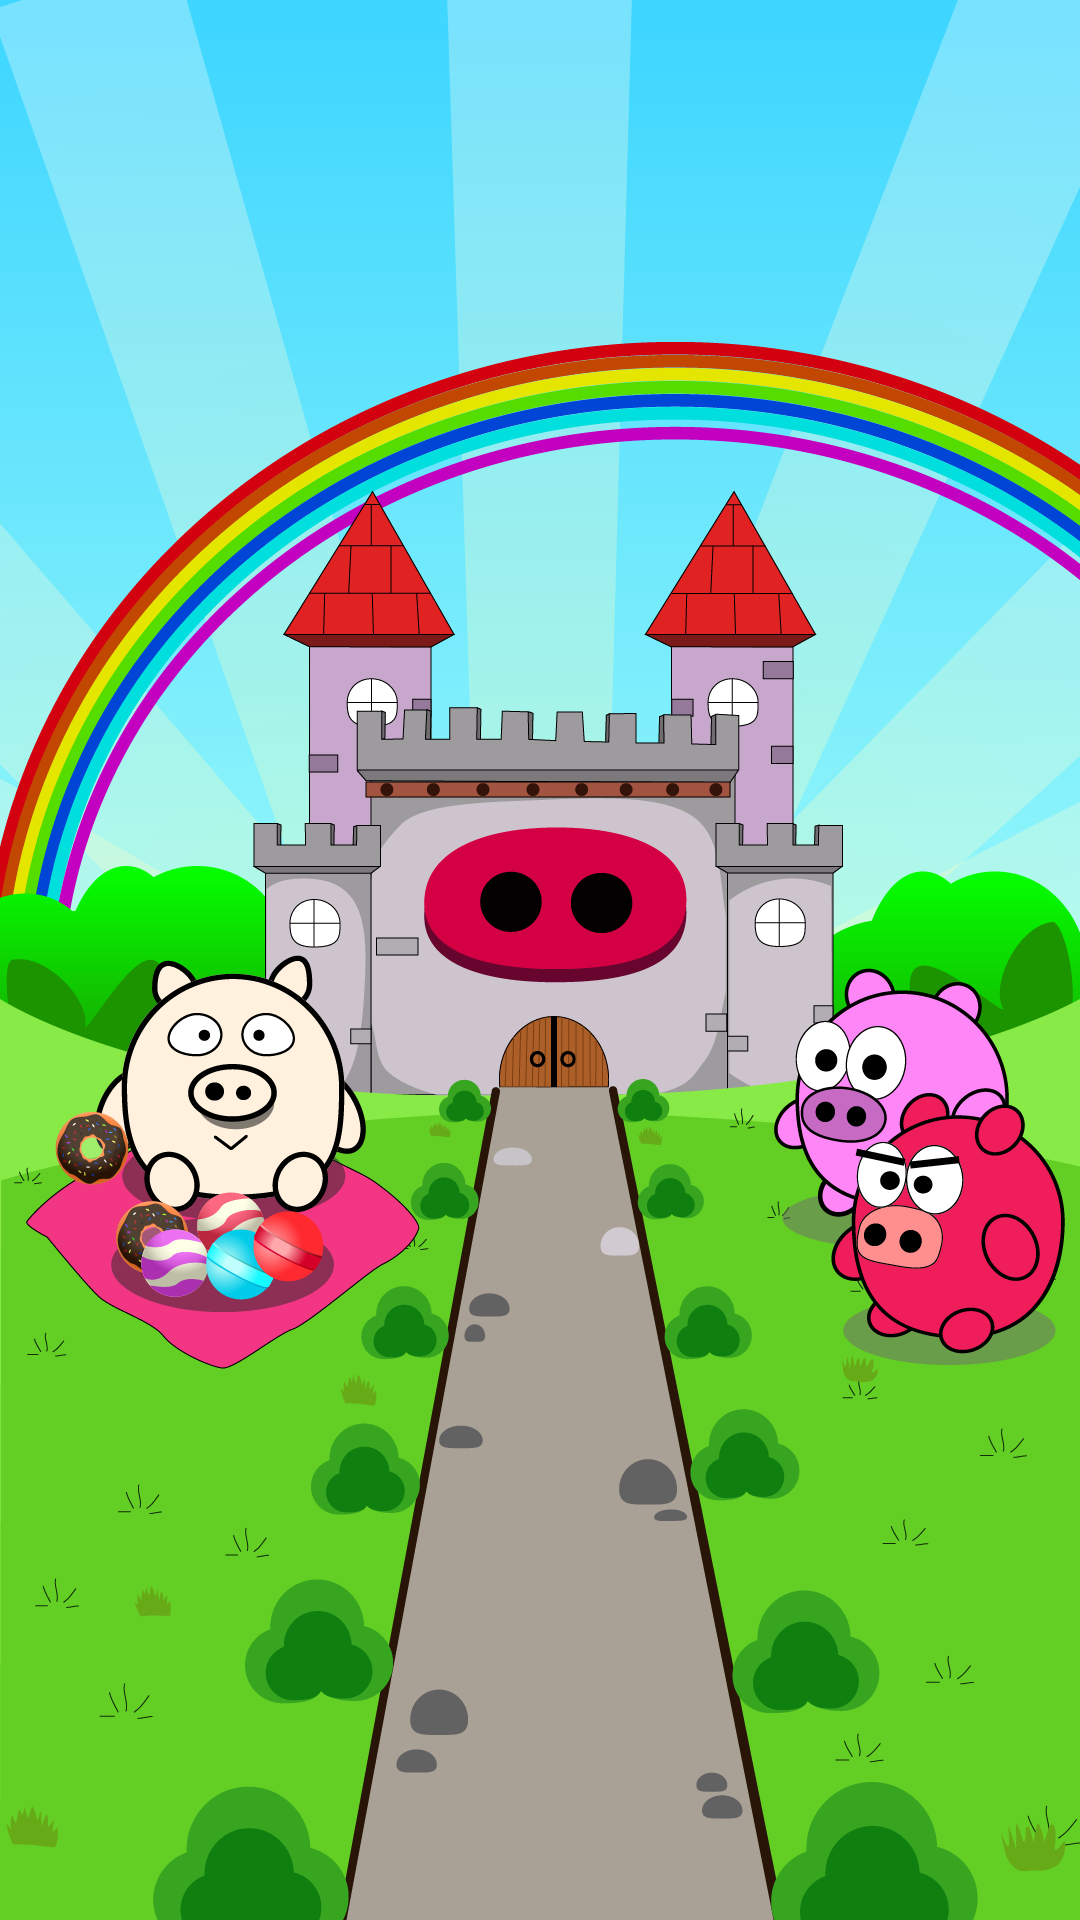
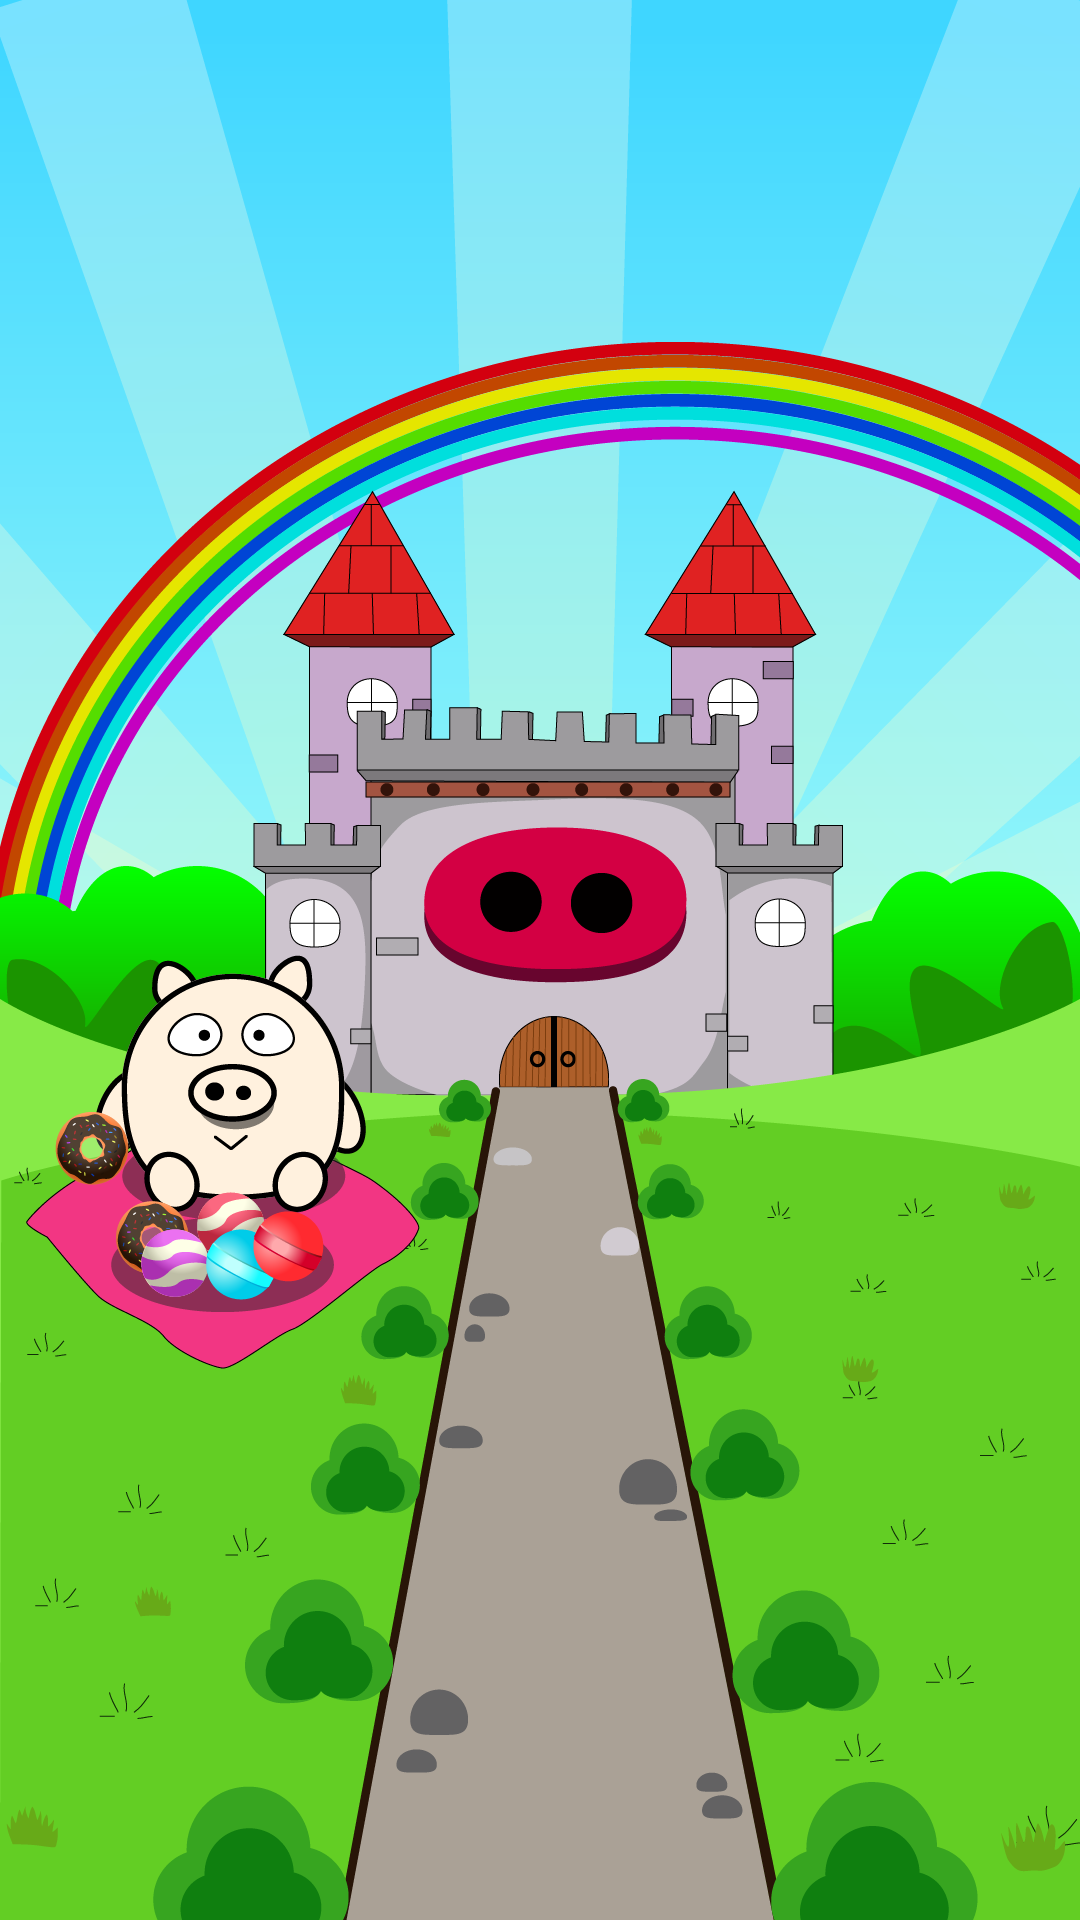
[NEW]Set Base Stage and StartScene Animation

Changed region(s): [[0.7028, 0.5, 1.0, 0.7188]]

diff --git a/Classes/GameScene/StartScene.cpp b/Classes/GameScene/StartScene.cpp
@@ -13,18 +13,28 @@ namespace GameScene
         std::string backgroundImage = "image/StartBackground.png";
         std::string startButtonImage = "image/StartButton.png";
         std::string startTitleImage = "image/StartTitle.png";
+        std::string movePig0Image = "image/StartSceneMovePig0.png";
+        std::string movePig1Image = "image/StartSceneMovePig1.png";
         this->startBackground = new GameSprite::Background(backgroundImage);
         this->startBackground->setPosition(this->center);
         this->startButton = new GameSprite::StartButton(startButtonImage);
         this->startButton->setPosition(this->getStartButtonPosition());
         this->startTitle = new GameSprite::StartTitle(startTitleImage);
         this->startTitle->setPosition(this->getStartTitlePosition());
+        this->movePig0 = new GameSprite::Image(movePig0Image);
+        this->movePig0->setPosition(this->getMovePig0EndPosition());
+        this->movePig1 = new GameSprite::Image(movePig1Image);
+        this->movePig1->setPosition(this->getMovePig1EndPosition());
         this->addChild(this->startBackground, 0);
-        this->addChild(this->startButton, 1);
-        this->addChild(this->startTitle, 1);
+        this->addChild(this->startButton, 3);
+        this->addChild(this->startTitle, 3);
+        this->addChild(this->movePig0, 2);
+        this->addChild(this->movePig1, 1);
         spriteManager->setWithKey("StartScene_Background", this->startBackground);
         spriteManager->setWithKey("StartScene_StartButton", this->startButton);
         spriteManager->setWithKey("StartScene_StartTitle", this->startTitle);
+        spriteManager->setWithKey("StartScene_MovePig0", this->movePig0);
+        spriteManager->setWithKey("StartScene_MovePig1", this->movePig1);
     }
     
     void StartScene::releaseScene()
@@ -34,6 +44,41 @@ namespace GameScene
         spriteManager->releaseByKey("StartScene_Background");
         spriteManager->releaseByKey("StartScene_StartButton");
         spriteManager->releaseByKey("StartScene_StartTitle");
+        spriteManager->releaseByKey("StartScene_MovePig0");
+        spriteManager->releaseByKey("StartScene_MovePig1");
+
+    }
+    
+    void StartScene::runAnimation()
+    {
+        auto spriteManager = Manager::SpriteManager::getInstance();
+        Vec2 titleEndPosition = this->getStartTitlePosition();
+        Vec2 titleStartposition = Vec2(this->centerTop.x, this->centerTop.y + this->startTitle->getContentSize().height);
+        this->startTitle->setPosition(titleStartposition);
+        this->movePig0->setPosition(this->getMovePig0StartPosition());
+        this->movePig1->setPosition(this->getMovePig1StartPosition());
+        auto actionTo = MoveTo::create(0.3, titleEndPosition);
+        auto actionBy0 = MoveBy::create(0.05, Vec2(0 , -50));
+        auto actionBy1 = MoveBy::create(0.1, Vec2(0 , 100));
+        auto actionBy2 = MoveBy::create(0.1, Vec2(0 , -100));
+        auto actionBy3 = MoveBy::create(0.1, Vec2(0 , 100));
+        auto actionBy4 = MoveBy::create(0.05, Vec2(0 , -50));
+        spriteManager->getByKey("MenuScene_SettingButton")->setVisible(false);
+        this->startButton->cocos2d::Node::setVisible(false);
+        this->startTitle->runAction(Sequence::create(actionTo, actionBy0, actionBy1, actionBy2, actionBy3, actionBy4, DelayTime::create(0.1f),
+                                                     CallFunc::create( CC_CALLBACK_0(StartScene::animationCallback, this)),nullptr));
+        actionTo = MoveTo::create(0.5, this->getMovePig0EndPosition());
+        this->movePig0->runAction(actionTo);
+        actionTo = MoveTo::create(0.5, this->getMovePig1EndPosition());
+        this->movePig1->runAction(actionTo);
+
+    }
+    
+    void StartScene::animationCallback()
+    {
+        auto spriteManager = Manager::SpriteManager::getInstance();
+        spriteManager->getByKey("MenuScene_SettingButton")->setVisible(true);
+        this->startButton->cocos2d::Node::setVisible(true);
     }
     
     Vec2 StartScene::getStartButtonPosition()
@@ -45,5 +90,26 @@ namespace GameScene
     Vec2 StartScene::getStartTitlePosition()
     {
         return Vec2(this->center.x, this->visibleOrigin.y + this->visibleSize.height * 0.85);
+    }
+    
+    
+    Vec2 StartScene::getMovePig0StartPosition()
+    {
+        return Vec2(this->visibleOrigin.x + this->visibleSize.width + this->getContentSize().width, 690);
+    }
+    
+    Vec2 StartScene::getMovePig1StartPosition()
+    {
+        return Vec2(this->visibleOrigin.x + this->visibleSize.width + this->getContentSize().width, 810);
+    }
+    
+    Vec2 StartScene::getMovePig0EndPosition()
+    {
+        return Vec2(950, 690);
+    }
+    
+    Vec2 StartScene::getMovePig1EndPosition()
+    {
+        return Vec2(890, 810);
     }
 }

diff --git a/Classes/GameScene/PlayScene.cpp b/Classes/GameScene/PlayScene.cpp
@@ -9,6 +9,7 @@ namespace GameScene
         this->episodeNumber = pEpisodeNumber;
         this->stageNumber = pStageNumber;
         this->isVictory = false;
+        this->overGameTime = 25.f;
     }
     
     void PlayScene::initScene()
@@ -246,8 +247,8 @@ namespace GameScene
         this->road2CurrentIndex = 0;
         this->initConfig();
         this->progressBarUp->setVisible(true);
-        this->progressBarUp->runProgress(10.f);
-        this->timeBar->runAction(ProgressTo::create(10.f, 100));
+        //this->progressBarUp->runProgress(this->overGameTime);
+        this->timeBar->runAction(ProgressTo::create(this->overGameTime, 100));
         schedule(CC_SCHEDULE_SELECTOR(PlayScene::gameUpdate), 0.1f);
         schedule(CC_SCHEDULE_SELECTOR(PlayScene::road0Update), 0.1f);
         schedule(CC_SCHEDULE_SELECTOR(PlayScene::road1Update), 0.1f);
@@ -309,7 +310,7 @@ namespace GameScene
     {
         if (! this->isPaused) {
             this->playTime += delta;
-            if (this->playTime > 1.f) {
+            if (this->playTime > this->overGameTime) {
                 unschedule(schedule_selector(PlayScene::gameUpdate));
                 unschedule(schedule_selector(PlayScene::road0Update));
                 unschedule(schedule_selector(PlayScene::road1Update));
@@ -398,67 +399,28 @@ namespace GameScene
     void PlayScene::initConfig()
     {
         this->road0TimeConfig = {
-            0.5f,
-            0.8f,
-            1.0f,
             1.3f,
-            1.7f,
-            2.2f,
-            2.9f,
-            3.3f,
-            3.5f,
-            4.0f,
-            4.5f,
-            5.1f,
-            5.5f,
-            6.4f,
-            7.1f,
-            7.7f,
-            7.9f,
-            8.5f,
-            9.6f
+            1.9f,
+            11.3f,
+            15.8f,
+            16.8f,
+            17.9f
         };
         
         this->road1TimeConfig = {
-            0.9f,
-            1.8f,
-            2.1f,
-            2.5f,
             3.7f,
-            4.0f,
-            4.5f,
-            4.9f,
-            5.3f,
-            5.5f,
-            5.8f,
-            6.1f,
-            6.5f,
-            6.7f,
-            7.6f,
-            8.1f,
-            8.4f
+            7.1f,
+            8.5f,
+            10.0f,
         };
 
         this->road2TimeConfig = {
-            0.8f,
-            1.5f,
-            2.3f,
-            2.9f,
-            3.2f,
-            3.6f,
-            4.1f,
-            4.6f,
+            2.6f,
             4.9f,
-            5.3f,
-            5.5f,
-            6.0f,
-            6.6f,
-            7.0f,
-            7.4f,
-            7.8f,
-            8.2f,
-            8.9f,
-            9.5f
+            5.8f,
+            12.2f,
+            12.9f,
+            14.5f,
         };
     }
 }

diff --git a/Classes/GameScene/StartScene.h b/Classes/GameScene/StartScene.h
@@ -4,6 +4,7 @@
 #include "GameSprite/Background.h"
 #include "GameSprite/StartButton.h"
 #include "GameSprite/startTitle.h"
+#include "GameSprite/image.h"
 #include "Manager/SpriteManager.h"
 #include "BaseScene.h"
 
@@ -15,12 +16,21 @@ namespace GameScene
         StartScene();
         void initScene();
         void releaseScene();
+        void runAnimation();
+        void animationCallback();
+        //void stopAnimation();
         GameSprite::Background* startBackground;
         GameSprite::StartButton* startButton;
         GameSprite::StartTitle* startTitle;
+        GameSprite::Image* movePig0;
+        GameSprite::Image* movePig1;
     private:
         Vec2 getStartButtonPosition();
         Vec2 getStartTitlePosition();
+        Vec2 getMovePig0StartPosition();
+        Vec2 getMovePig0EndPosition();
+        Vec2 getMovePig1StartPosition();
+        Vec2 getMovePig1EndPosition();
     };
 }
 

diff --git a/Classes/GameSprite/Sweet.cpp b/Classes/GameSprite/Sweet.cpp
@@ -8,7 +8,7 @@ namespace GameSprite
     {
         this->sweetId = pSweetId;
         this->roadIndex = pRoadIndex;
-        this->runningTime = 3.f;
+        this->runningTime = 6.f;
     }
 
     void Sweet::eaten()
@@ -41,7 +41,12 @@ namespace GameSprite
     
     void Sweet::run()
     {
-        auto actionBy = MoveBy::create(this->runningTime, Vec2(0, -1000));
+        Size visibleSize = Director::getInstance()->getVisibleSize();
+        Vec2 visibleOrigin = Director::getInstance()->getVisibleOrigin();
+
+        float distance = (visibleOrigin.y + 0.87 * visibleSize.height) - (0.24 * 1920);
+        CCLOG("distance %f", distance);
+        auto actionBy = MoveBy::create(this->runningTime, Vec2(0, -1 * distance));
         //auto blink = Blink::create(0.3f, 3);
         this->runAction(Sequence::create(actionBy, CallFunc::create(CC_CALLBACK_0(Sweet::missEat, this)), nullptr));
     }

diff --git a/Classes/GameScene/BaseScene.cpp b/Classes/GameScene/BaseScene.cpp
@@ -16,6 +16,14 @@ namespace GameScene
                                 visibleOrigin.y);
         this->rightBottom = (Vec2(visibleOrigin.x + visibleSize.width,
                                   visibleOrigin.y ));
+        this->centerTop = Vec2(visibleOrigin.x + visibleSize.width / 2,
+                               visibleOrigin.y + visibleSize.height);
+        this->centerBottom = Vec2(visibleOrigin.x + visibleSize.width / 2,
+                                  visibleOrigin.y);
+        this->centerLeft = Vec2(visibleOrigin.x,
+                                visibleOrigin.y + visibleSize.height / 2);
+        this->centerRight = Vec2(visibleOrigin.x + visibleSize.width,
+                                 visibleOrigin.y + visibleSize.height / 2);
         this->init();
         this->autorelease();
         this->retain();

diff --git a/Classes/GameSprite/Pig.cpp b/Classes/GameSprite/Pig.cpp
@@ -40,11 +40,11 @@ namespace GameSprite
             float sweetPosition = nearestSweet->getPosition().y;
             float pigPosition = this->getPosition().y;
             float diffPosition = sweetPosition - pigPosition;
-            if (diffPosition > 0 && diffPosition < 54) {
+            if (diffPosition > 0 && diffPosition < 70) {
                 scores =  100;
-            } else if (diffPosition >= 54 && diffPosition <= 90) {
+            } else if (diffPosition >= 70 && diffPosition <= 100) {
                 scores =  80;
-            } else if (diffPosition > 90 && diffPosition <= 126) {
+            } else if (diffPosition > 100 && diffPosition <= 130) {
                 scores =  60;
             } else {
                 this->hp --;

diff --git a/Classes/GameSprite/Image.h b/Classes/GameSprite/Image.h
@@ -1,0 +1,20 @@
+#ifndef _GameSprite_Image_H_
+#define _GameSprite_Image_H_
+
+#include "BaseSprite.h"
+#include "cocos2d.h"
+
+
+USING_NS_CC;
+
+namespace GameSprite
+{
+    class Image : public BaseSprite
+    {
+    public:
+        Image(std::string image);
+    };
+}
+
+
+#endif /* _GameSprite_Image_H_ */

diff --git a/Classes/Controller/GameController.cpp b/Classes/Controller/GameController.cpp
@@ -235,6 +235,7 @@ namespace Controller
         SceneManager::getInstance()->setCurrent(scene);
         this->addMenuSceneToCurrentScene();
         Director::getInstance()->runWithScene(scene);
+        scene->runAnimation();
     }
     
     void GameController::startSceneToSelectionScene()

diff --git a/Classes/GameScene/PlayScene.h b/Classes/GameScene/PlayScene.h
@@ -55,6 +55,7 @@ namespace GameScene
         int getNearestSweetIndex(int road);
         GameSprite::Sweet* getNearestSweet(int road);
     private:
+        float overGameTime;
         bool isVictory;
         bool isPaused;
         int prepareTime;

diff --git a/Classes/GameScene/BaseScene.h b/Classes/GameScene/BaseScene.h
@@ -24,6 +24,10 @@ namespace GameScene
         Vec2 rightTop;
         Vec2 leftBottom;
         Vec2 rightBottom;
+        Vec2 centerTop;
+        Vec2 centerBottom;
+        Vec2 centerLeft;
+        Vec2 centerRight;
     };
 }
 

diff --git a/Classes/GameSprite/Image.cpp b/Classes/GameSprite/Image.cpp
@@ -1,0 +1,8 @@
+#include "Image.h"
+
+namespace GameSprite
+{
+    Image::Image(std::string image) : GameSprite::BaseSprite(image)
+    {
+    }
+}
